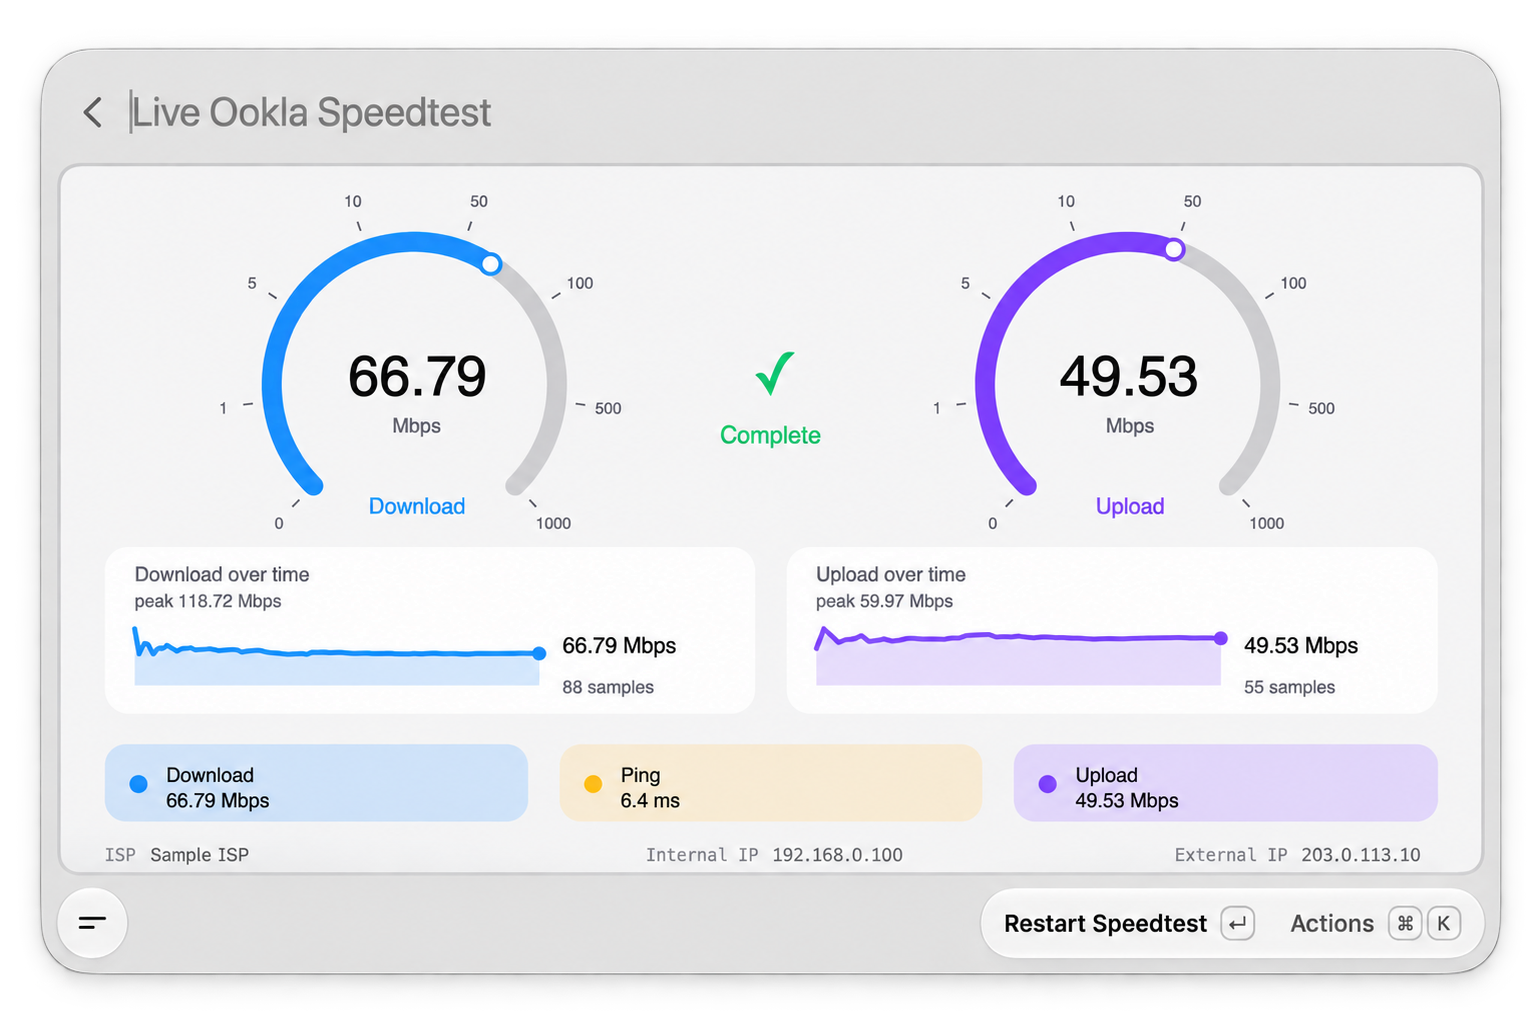
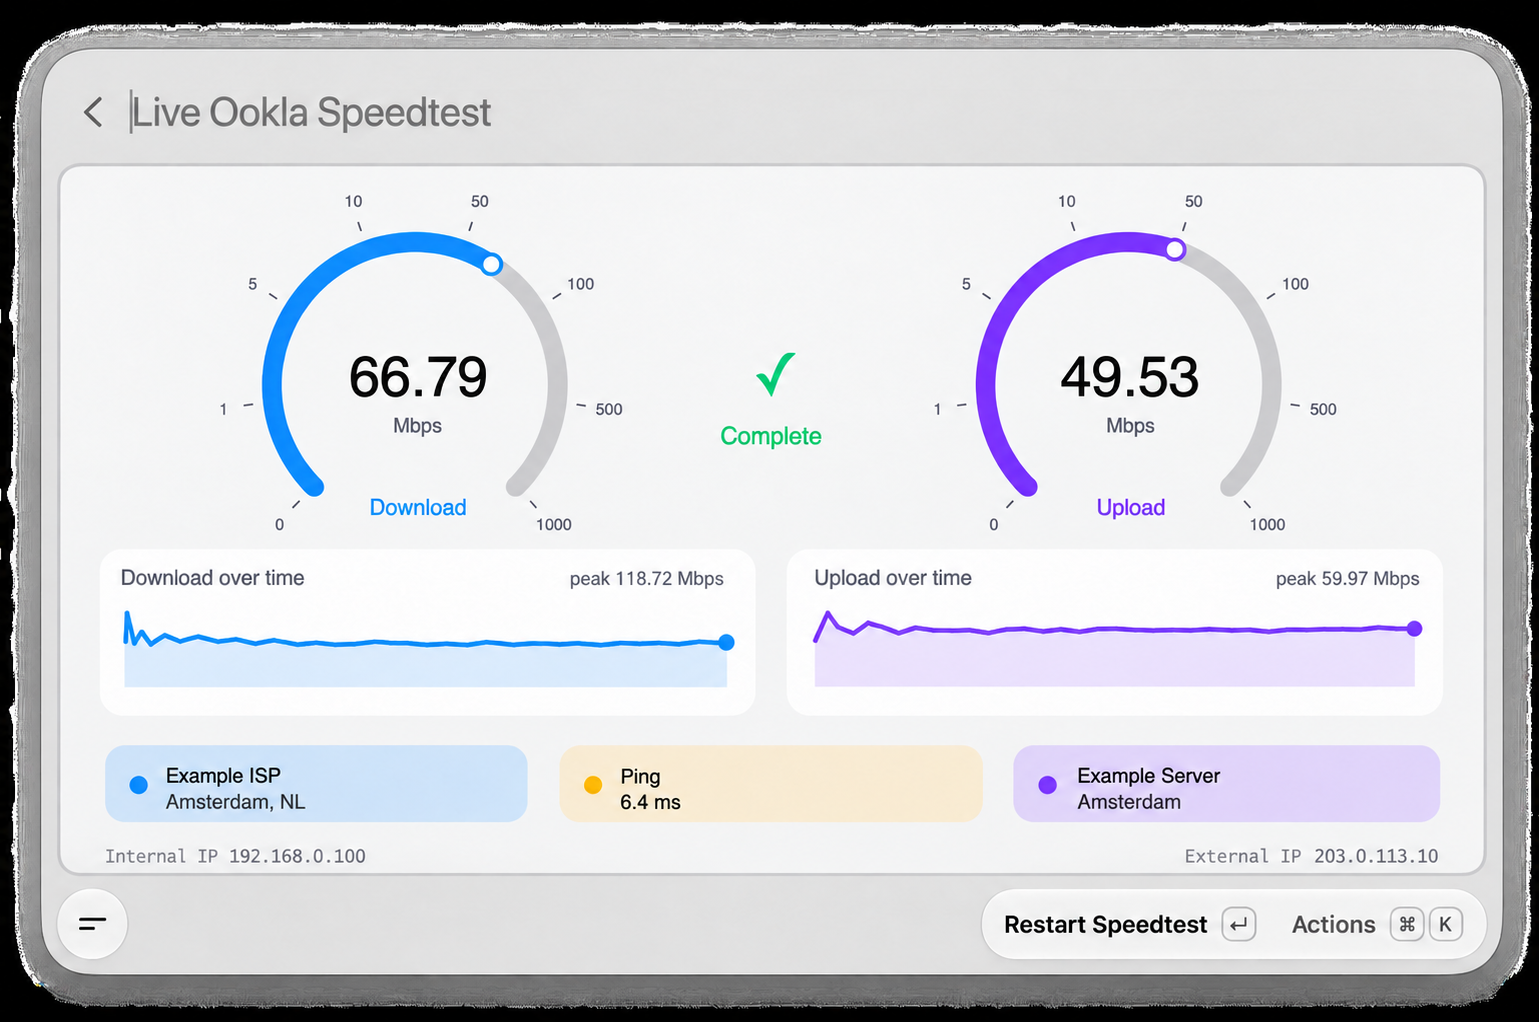
Refresh README screenshot with example network details

diff --git a/README.md b/README.md
@@ -4,7 +4,7 @@ Run Ookla speed tests in Tinycast with live download and upload gauges, progress
 
 ![Speedtest Live in Tinycast after a completed test](https://raw.githubusercontent.com/wu-liang/tinycast-speedtest-live/main/docs/images/speedtest-live.png)
 
-*Screenshot uses example ISP and IP addresses.*
+*Illustrative screenshot with example network details and reserved IP addresses.*
 
 ## Install
 
